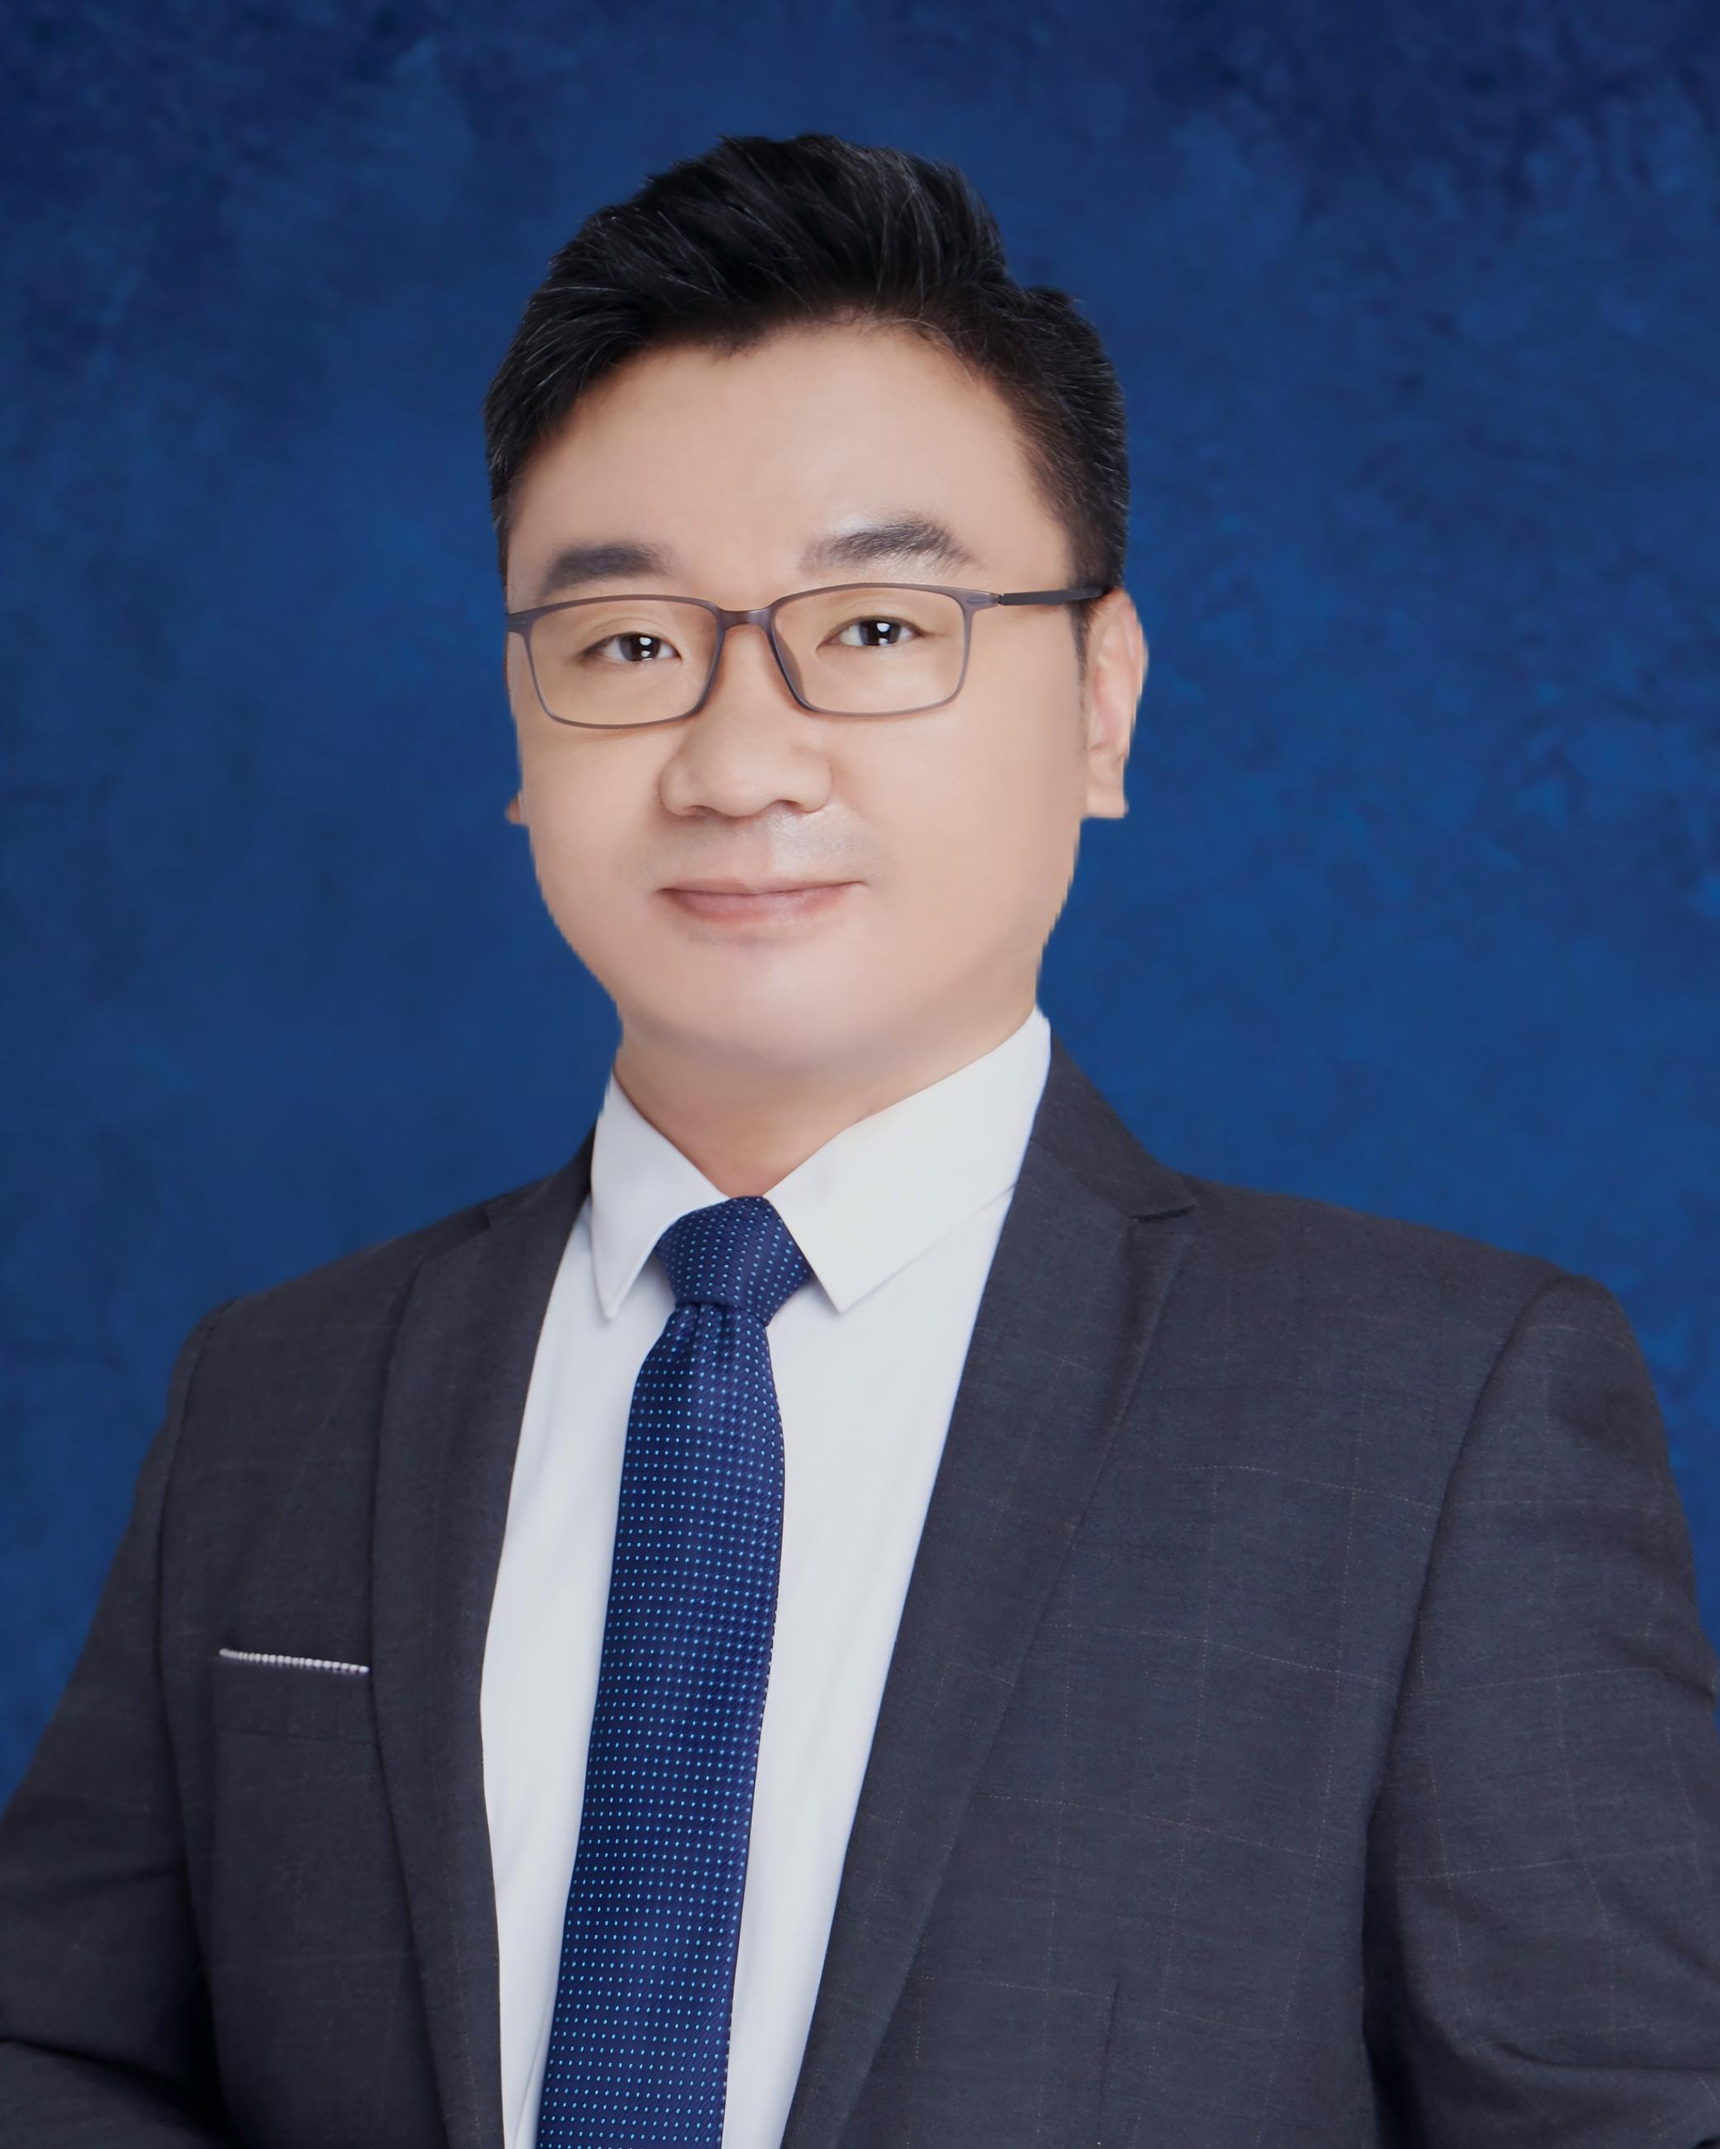
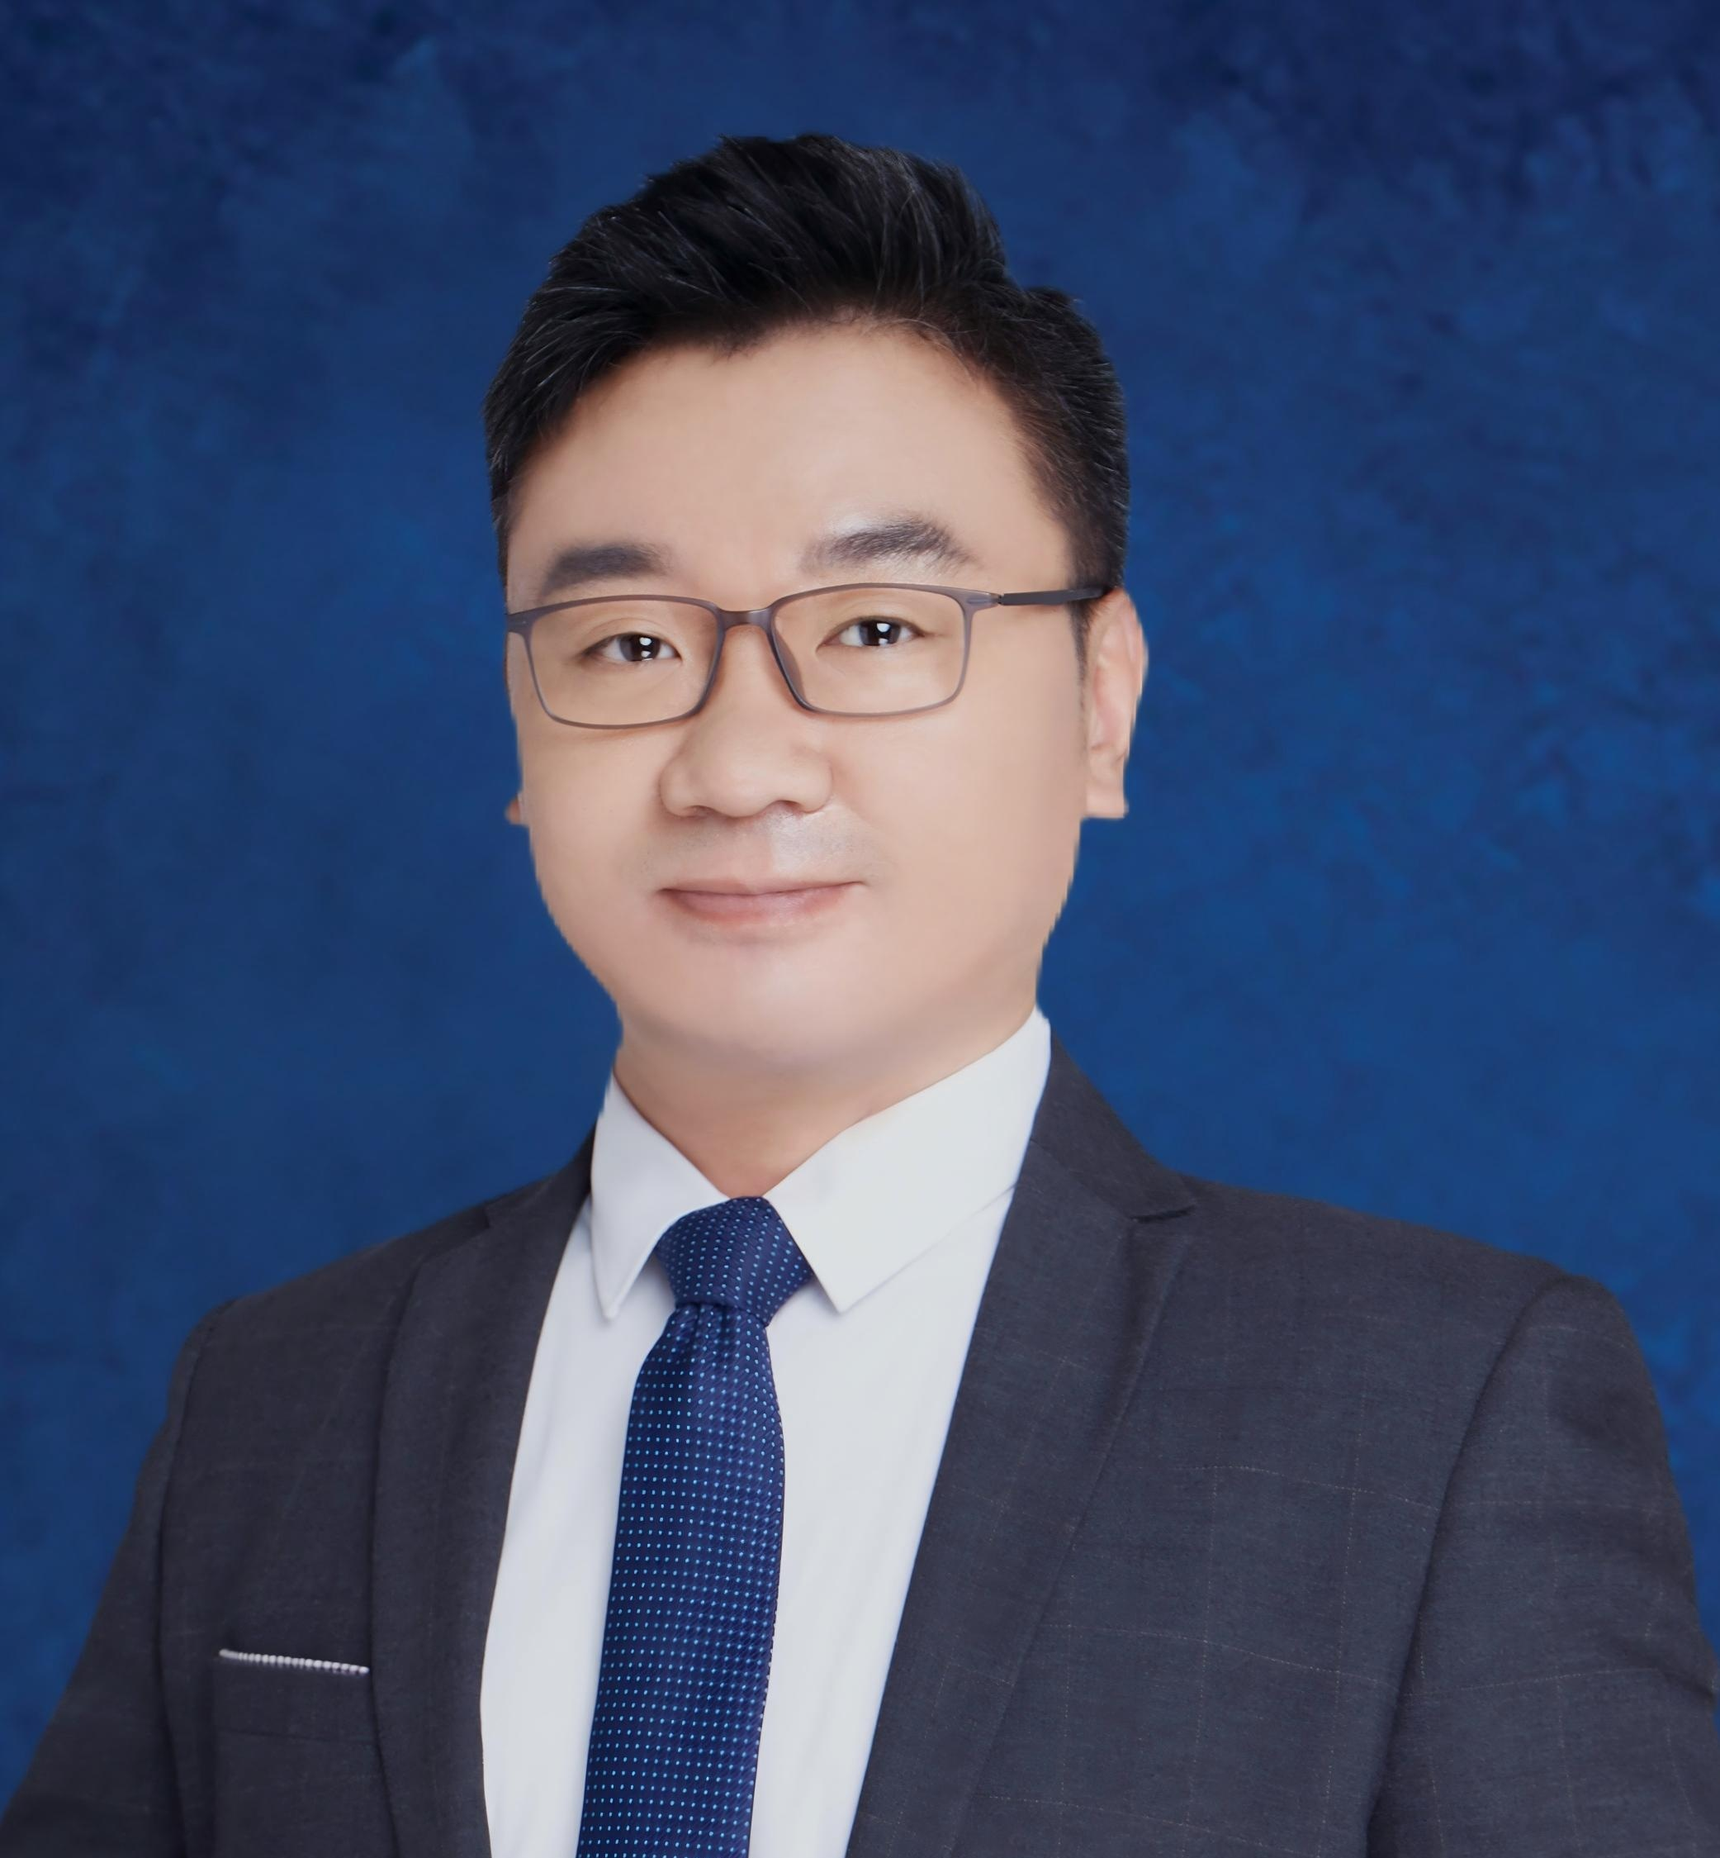
1

diff --git a/facultystaff.html b/facultystaff.html
@@ -53,50 +53,17 @@
                     <p class="text-sm text-gray-600">Trustee</p>
                   </div>
                 </article>
+
                 <article class="flex flex-col items-center text-center space-y-4">
[1 lines of base64/hex data omitted]
-                  <div class="space-y-1">
-                    <h4 class="text-lg font-semibold text-gray-900">Raye Clendening</h4>
-                    <p class="text-sm text-gray-600">Trustee</p>
-                  </div>
-                </article>
-                <article class="flex flex-col items-center text-center space-y-4">
[1 lines of base64/hex data omitted]
-                  <div class="space-y-1">
-                    <h4 class="text-lg font-semibold text-gray-900">Frank Merchat</h4>
-                    <p class="text-sm text-gray-600">Trustee</p>
-                  </div>
-                </article>
-                <article class="flex flex-col items-center text-center space-y-4">
[1 lines of base64/hex data omitted]
+                  <img src="img/au/4.jpg">
                   <div class="space-y-1">
                     <h4 class="text-lg font-semibold text-gray-900">Ann Crosbie</h4>
                     <p class="text-sm text-gray-600">Trustee</p>
                   </div>
                 </article>
+
                 <article class="flex flex-col items-center text-center space-y-4">
[1 lines of base64/hex data omitted]
-                  <div class="space-y-1">
-                    <h4 class="text-lg font-semibold text-gray-900">Anna Pedroza</h4>
-                    <p class="text-sm text-gray-600">Trustee</p>
-                  </div>
-                </article>
-                <article class="flex flex-col items-center text-center space-y-4">
[1 lines of base64/hex data omitted]
-                  <div class="space-y-1">
-                    <h4 class="text-lg font-semibold text-gray-900">Heather Conklin</h4>
-                    <p class="text-sm text-gray-600">Trustee</p>
-                  </div>
-                </article>
-                <article class="flex flex-col items-center text-center space-y-4">
[1 lines of base64/hex data omitted]
-                  <div class="space-y-1">
-                    <h4 class="text-lg font-semibold text-gray-900">Jacqueline Simon</h4>
-                    <p class="text-sm text-gray-600">Trustee</p>
-                  </div>
-                </article>
-                <article class="flex flex-col items-center text-center space-y-4">
[1 lines of base64/hex data omitted]
+                  <img src="img/au/8.jpg">
                   <div class="space-y-1">
                     <h4 class="text-lg font-semibold text-gray-900">Liwei Guo</h4>
                     <p class="text-sm text-gray-600">Trustee</p>
@@ -109,29 +76,22 @@
           <!-- Academic Mentors -->
           <div class="rounded-3xl bg-white shadow-lg ring-1 ring-black/5 overflow-hidden">
             <div class="bg-gradient-to-r from-[#1D1D36] to-[#313158] px-6 py-6 text-white">
-              <h3 class="text-2xl font-semibold">Academic Mentors</h3>
+              <h3 class="text-2xl font-semibold">Academic Leadership</h3>
             </div>
             <div class="px-6 py-8">
               <div class="grid gap-10 sm:grid-cols-2 lg:grid-cols-3">
                 <article class="flex flex-col items-center text-center space-y-4">
-                  <img src="img/28b2c8_6fb4f8b7b26b461e90697c4a063f140.png" alt="Prof. Liam Anderson portrait" class="h-32 w-32 rounded-[5px] object-cover shadow-lg ring-4 ring-[#1D1D36]/20">
+                  <img src="img/au/21.jpg" alt="Prof. Liam Anderson portrait" class="h-32 w-32 rounded-[5px] object-cover shadow-lg ring-4 ring-[#1D1D36]/20">
                   <div class="space-y-1">
                     <h4 class="text-lg font-semibold text-gray-900">Prof. Liam Anderson</h4>
                     <p class="text-sm text-gray-600">STEM Curriculum Lead</p>
                   </div>
                 </article>
                 <article class="flex flex-col items-center text-center space-y-4">
-                  <img src="img/28b2c8_2dad88960d0d420ba09921e6598ec2dd~mv2.png" alt="Dr. Grace Patel portrait" class="h-32 w-32 rounded-[5px] object-cover shadow-lg ring-4 ring-[#1D1D36]/20">
+                  <img src="img/au/22.jpg" alt="Dr. Grace Patel portrait" class="h-32 w-32 rounded-[5px] object-cover shadow-lg ring-4 ring-[#1D1D36]/20">
                   <div class="space-y-1">
                     <h4 class="text-lg font-semibold text-gray-900">Dr. Grace Patel</h4>
                     <p class="text-sm text-gray-600">Humanities Chair</p>
-                  </div>
-                </article>
-                <article class="flex flex-col items-center text-center space-y-4">
-                  <img src="img/28b2c8_1cf5076db0a64595a1c2ef6f0a5c4688~mv2.jpg" alt="Naomi Jackson portrait" class="h-32 w-32 rounded-[5px] object-cover shadow-lg ring-4 ring-[#1D1D36]/20">
-                  <div class="space-y-1">
-                    <h4 class="text-lg font-semibold text-gray-900">Naomi Jackson</h4>
-                    <p class="text-sm text-gray-600">Arts &amp; Design Instructor</p>
                   </div>
                 </article>
               </div>
@@ -141,29 +101,22 @@
           <!-- Student Services -->
           <div class="rounded-3xl bg-white shadow-lg ring-1 ring-black/5 overflow-hidden">
             <div class="bg-gradient-to-r from-[#1D1D36] to-[#313158] px-6 py-6 text-white">
-              <h3 class="text-2xl font-semibold">Student Services</h3>
+              <h3 class="text-2xl font-semibold">External Advisor</h3>
             </div>
             <div class="px-6 py-8">
               <div class="grid gap-10 sm:grid-cols-2 lg:grid-cols-3">
                 <article class="flex flex-col items-center text-center space-y-4">
-                  <img src="img/camp5.png" alt="Daniel Wu portrait" class="h-32 w-32 rounded-[5px] object-cover shadow-lg ring-4 ring-[#1D1D36]/20">
+                  <img src="img/au/31.jpg" alt="Daniel Wu portrait" class="h-32 w-32 rounded-[5px] object-cover shadow-lg ring-4 ring-[#1D1D36]/20">
                   <div class="space-y-1">
                     <h4 class="text-lg font-semibold text-gray-900">Daniel Wu</h4>
                     <p class="text-sm text-gray-600">University Pathway Counselor</p>
                   </div>
                 </article>
                 <article class="flex flex-col items-center text-center space-y-4">
-                  <img src="img/camp6.png" alt="Avery Thompson portrait" class="h-32 w-32 rounded-[5px] object-cover shadow-lg ring-4 ring-[#1D1D36]/20">
+                  <img src="img/au/32.jpg" alt="Avery Thompson portrait" class="h-32 w-32 rounded-[5px] object-cover shadow-lg ring-4 ring-[#1D1D36]/20">
                   <div class="space-y-1">
                     <h4 class="text-lg font-semibold text-gray-900">Avery Thompson</h4>
                     <p class="text-sm text-gray-600">Student Life Coordinator</p>
-                  </div>
-                </article>
-                <article class="flex flex-col items-center text-center space-y-4">
-                  <img src="img/camp7.png" alt="Helen Park portrait" class="h-32 w-32 rounded-[5px] object-cover shadow-lg ring-4 ring-[#1D1D36]/20">
-                  <div class="space-y-1">
-                    <h4 class="text-lg font-semibold text-gray-900">Helen Park</h4>
-                    <p class="text-sm text-gray-600">Residential Liaison</p>
                   </div>
                 </article>
               </div>
@@ -173,26 +126,26 @@
           <!-- College Guidance -->
           <div class="rounded-3xl bg-white shadow-lg ring-1 ring-black/5 overflow-hidden">
             <div class="bg-gradient-to-r from-[#1D1D36] to-[#313158] px-6 py-6 text-white">
-              <h3 class="text-2xl font-semibold">College Guidance</h3>
+              <h3 class="text-2xl font-semibold">Teaching Faculty</h3>
             </div>
             <div class="px-6 py-8">
               <div class="grid gap-10 sm:grid-cols-2 lg:grid-cols-3">
                 <article class="flex flex-col items-center text-center space-y-4">
-                  <img src="img/11062b_8dcadfa428954b1d919f8499f75aa27a~mv2.png" alt="Isabella Nguyen portrait" class="h-32 w-32 rounded-[5px] object-cover shadow-lg ring-4 ring-[#1D1D36]/20">
+                  <img src="img/au/41.jpg" alt="Isabella Nguyen portrait" class="h-32 w-32 rounded-[5px] object-cover shadow-lg ring-4 ring-[#1D1D36]/20">
                   <div class="space-y-1">
                     <h4 class="text-lg font-semibold text-gray-900">Isabella Nguyen</h4>
                     <p class="text-sm text-gray-600">Lead College Counselor</p>
                   </div>
                 </article>
                 <article class="flex flex-col items-center text-center space-y-4">
-                  <img src="img/01c3aff52f2a4dffa526d7a9843d46ea.png" alt="Marcus Hill portrait" class="h-32 w-32 rounded-[5px] object-cover shadow-lg ring-4 ring-[#1D1D36]/20">
+                  <img src="img/au/42.jpg" alt="Marcus Hill portrait" class="h-32 w-32 rounded-[5px] object-cover shadow-lg ring-4 ring-[#1D1D36]/20">
                   <div class="space-y-1">
                     <h4 class="text-lg font-semibold text-gray-900">Marcus Hill</h4>
                     <p class="text-sm text-gray-600">Scholarship Advisor</p>
                   </div>
                 </article>
                 <article class="flex flex-col items-center text-center space-y-4">
-                  <img src="img/2e2a49_bf9f0581892b429089f2ffcbb9c17f62~mv2.png" alt="Priya Das portrait" class="h-32 w-32 rounded-[5px] object-cover shadow-lg ring-4 ring-[#1D1D36]/20">
+                  <img src="img/au/43.jpg" alt="Priya Das portrait" class="h-32 w-32 rounded-[5px] object-cover shadow-lg ring-4 ring-[#1D1D36]/20">
                   <div class="space-y-1">
                     <h4 class="text-lg font-semibold text-gray-900">Priya Das</h4>
                     <p class="text-sm text-gray-600">Career Planning Specialist</p>
